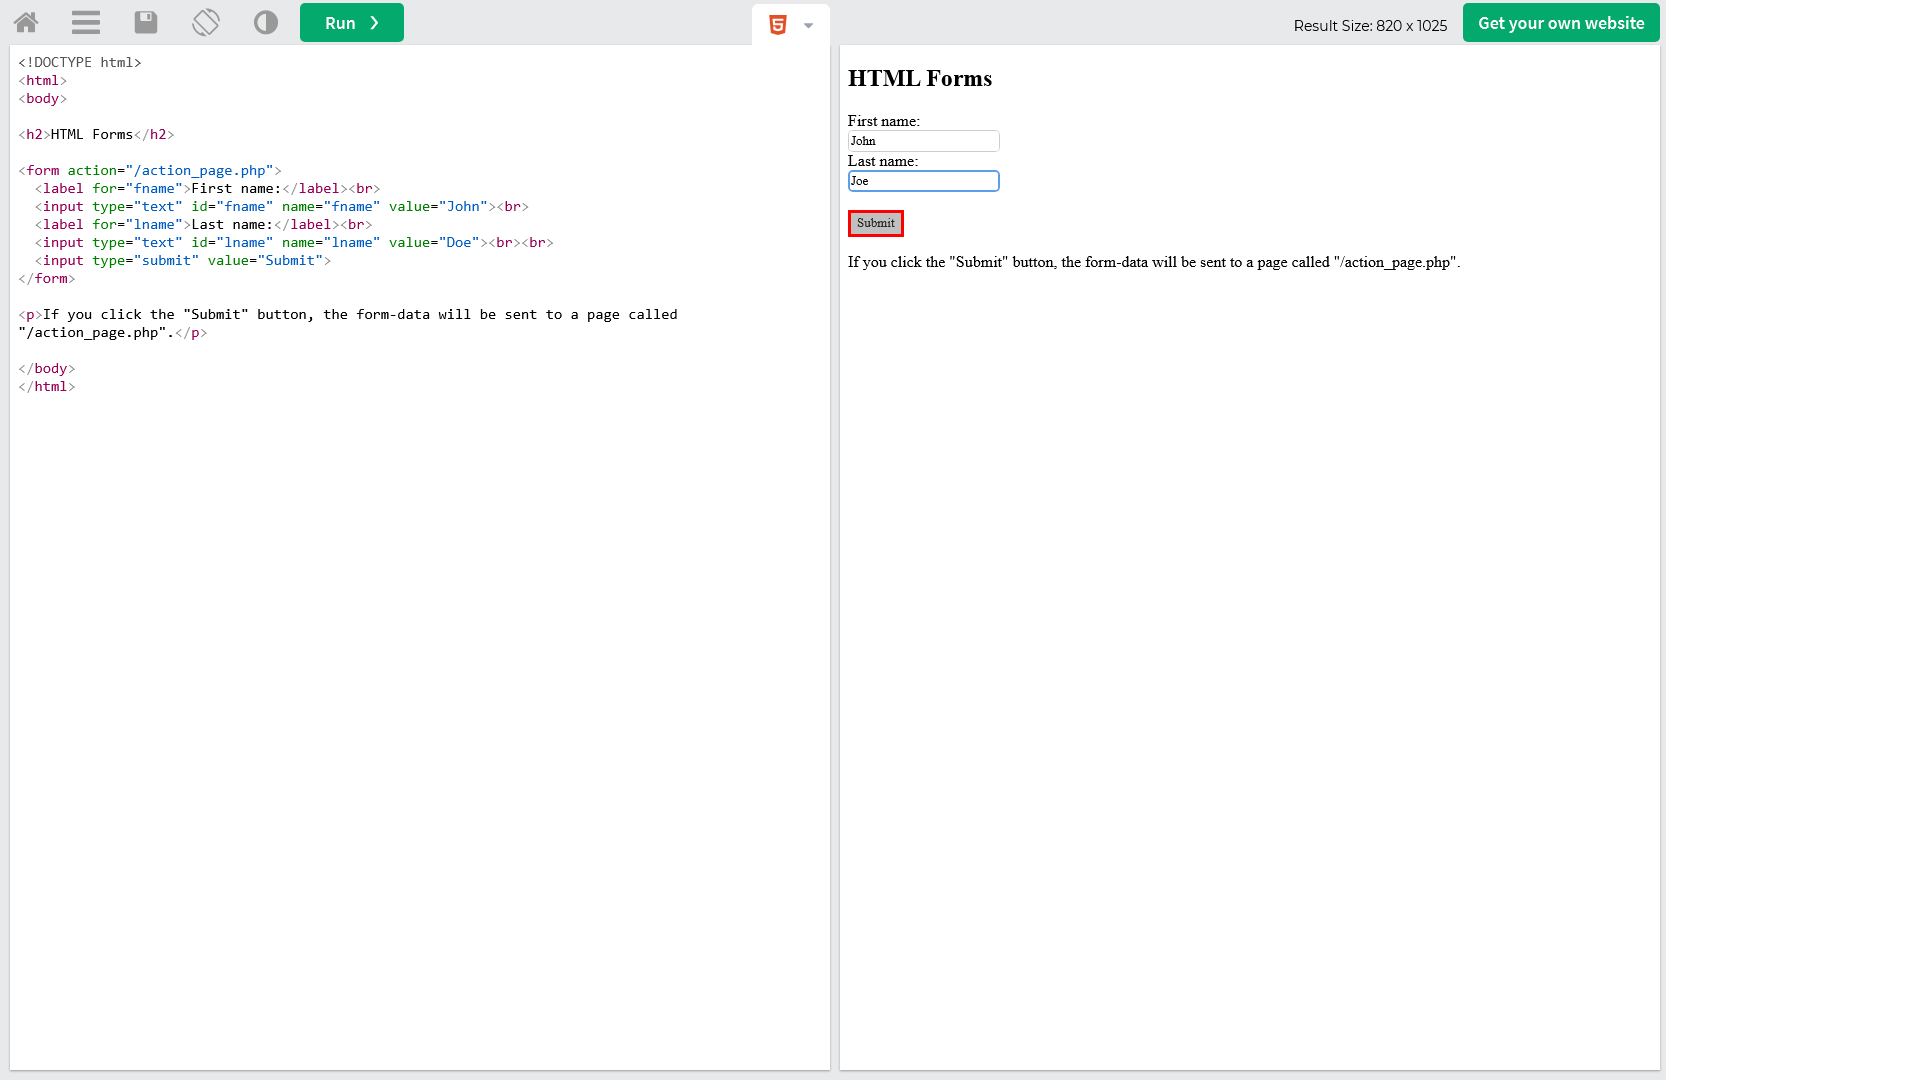
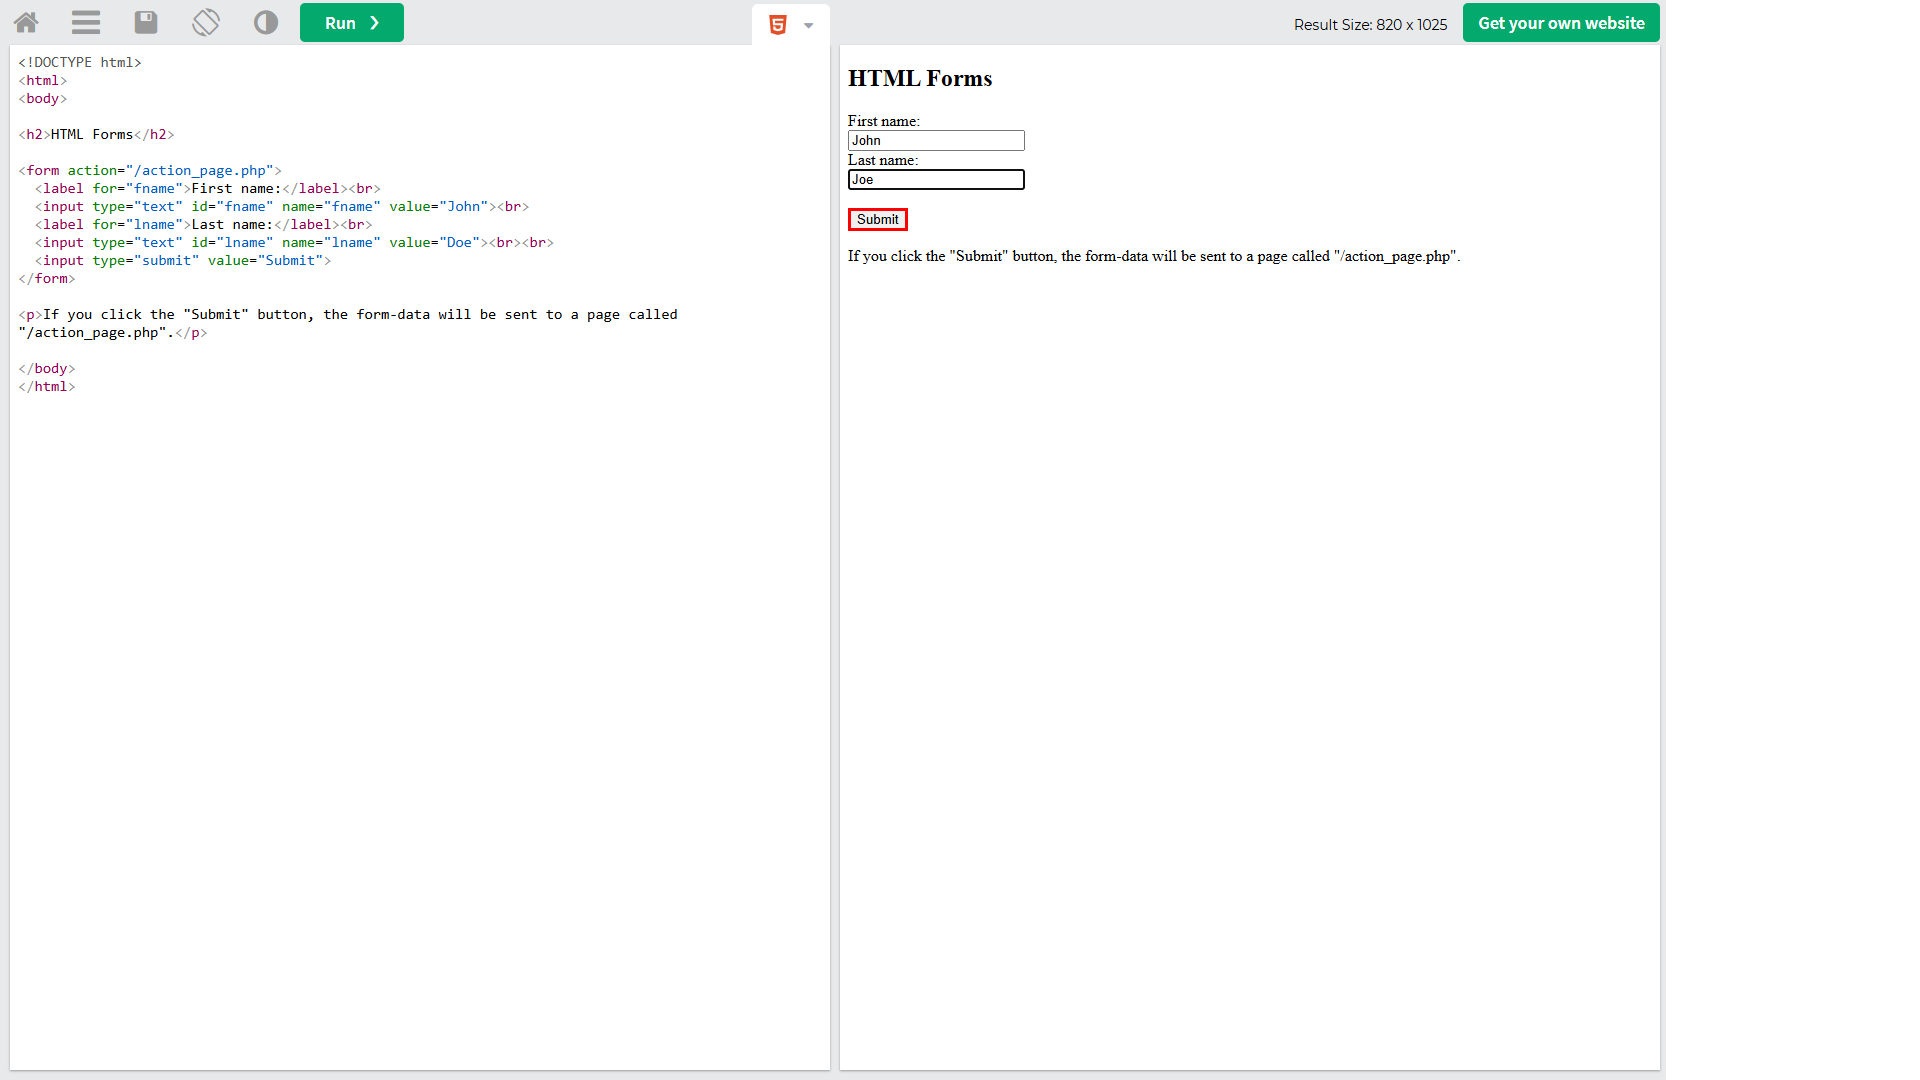
Added tests

diff --git a/tests/hooks-example.spec.ts b/tests/hooks-example.spec.ts
@@ -1,0 +1,47 @@
+import {test, expect } from '@playwright/test';
+
+test.describe('MediShop Tests', ()=>{
+
+    test.beforeEach(async ({page})=>{
+
+        await page.goto(
+            '/MediShopWebApp/login.html'
+        );
+
+        await expect(page.getByRole('heading',{name:'Welcome back'})).toBeVisible();
+
+        await expect(page.getByRole('button',{name:'Sign in'})).toBeVisible();
+
+        await page.getByLabel('Email address').fill(process.env.TEST_EMAIL);
+
+        await page.getByTestId('password_id').fill(process.env.TEST_PASSWORD);
+
+        await page.getByRole('button',{name:'Sign in'}).click();
+
+        await expect(page).not.toHaveURL(/login/);
+
+    });
+    
+
+    test('User can see popular medicines', async ({page})=>{
+       await expect(page.getByText('Popular Medicines')).toBeVisible();
+    });
+
+    test('User can browse medicines', async ({page})=>{
+       await page.getByRole('link',{name:'Browse medicines'}).click();
+       await expect(page).toHaveURL(/products/);
+    });
+
+    test.afterEach(async ({page},testInfo)=>{
+       console.log(`Finished Test: ${testInfo.title}`);
+       console.log(`Test status: ${testInfo.status}`);
+       console.log(`Test duration: ${testInfo.duration}ms`);
+
+       if(testInfo.status === 'failed'){
+        console.log(`Test failed: ${testInfo.title}`);
+        console.log(`Test error: ${testInfo.error}`);
+        await page.screenshot({path: `screenshots/${testInfo.title}.png`,fullPage:true});
+       }
+    });
+
+});

diff --git a/playwright.config.ts b/playwright.config.ts
@@ -1,12 +1,13 @@
 import { defineConfig, devices } from '@playwright/test';
+import path from 'node:path';
+import dotenv from 'dotenv';
+import 'dotenv/config';
 
 /**
  * Read environment variables from file.
  * https://github.com/motdotla/dotenv
  */
-// import dotenv from 'dotenv';
-// import path from 'path';
-// dotenv.config({ path: path.resolve(__dirname, '.env') });
+dotenv.config({ path: path.resolve(__dirname, '.env') });
 
 /**
  * See https://playwright.dev/docs/test-configuration.
@@ -26,8 +27,7 @@ export default defineConfig({
   /* Shared settings for all the projects below. See https://playwright.dev/docs/api/class-testoptions. */
   use: {
     /* Base URL to use in actions like `await page.goto('')`. */
-    // baseURL: 'http://localhost:3000',
-
+    baseURL: 'https://www.way2automation.com',
     video: 'off',
     trace: 'off',
     /* Collect trace when retrying the failed test. See https://playwright.dev/docs/trace-viewer */
@@ -37,21 +37,10 @@ export default defineConfig({
     ...devices['Desktop Chrome'],
   },
 
-  /* Configure projects for major browsers */
   projects: [
     {
-      name: 'chromium',
-      use: { ...devices['Desktop Chrome'] },
-    },
-
-    {
-      name: 'firefox',
-      use: { ...devices['Desktop Firefox'] },
-    },
-
-    {
-      name: 'webkit',
-      use: { ...devices['Desktop Safari'] },
+      name: 'chrome',
+      use: { ...devices['Desktop Chrome'], channel: 'chrome' },
     },
 
     /* Test against mobile viewports. */

diff --git a/tests/fixtures/auth.fixture.ts b/tests/fixtures/auth.fixture.ts
@@ -1,0 +1,32 @@
+import { expect, test as base, type Page } from '@playwright/test';
+
+type MyFixtures = {
+  loggedInPage: Page;
+};
+
+export const test = base.extend<MyFixtures>({
+  loggedInPage: async ({ page }, use) => {
+    const email = process.env.TEST_EMAIL;
+    const password = process.env.TEST_PASSWORD;
+    if (!email || !password) {
+      throw new Error('Set TEST_EMAIL and TEST_PASSWORD in the project root .env file.');
+    }
+
+    await page.goto(
+      'https://www.way2automation.com/MediShopWebApp/login.html'
+    );
+
+    await expect(page.getByRole('heading', { name: 'Welcome back' })).toBeVisible();
+    await expect(page.getByRole('button', { name: 'Sign in' })).toBeVisible();
+
+    await page.getByLabel('Email address').fill(email);
+    await page.getByTestId('password_id').fill(password);
+    await page.getByRole('button', { name: 'Sign in' }).click();
+
+    await expect(page).not.toHaveURL(/login/);
+    await use(page);
+  },
+});
+
+export { expect };
+

diff --git a/tests/medishop.spec.ts b/tests/medishop.spec.ts
@@ -1,0 +1,10 @@
+import { test, expect } from './fixtures/auth.fixture';
+
+test('User can see popular medicines', async ({ loggedInPage }) => {
+  await expect(loggedInPage.getByText('Popular Medicines')).toBeVisible();
+});
+
+test('User can browse medicines', async ({ loggedInPage }) => {
+  await loggedInPage.getByRole('link', { name: 'Browse Medicines' }).click();
+  await expect(loggedInPage).toHaveURL(/products/);
+});  
